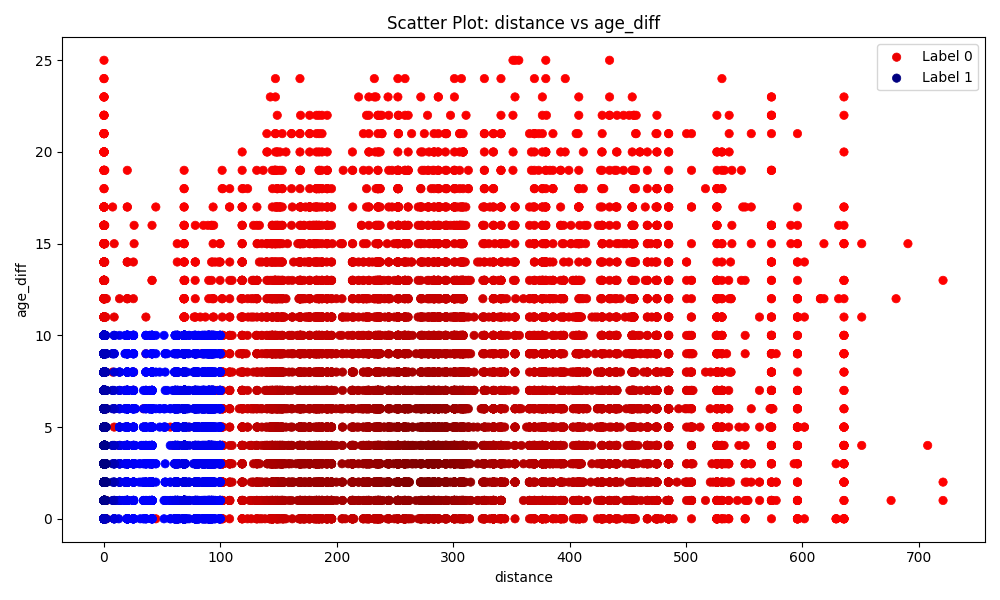
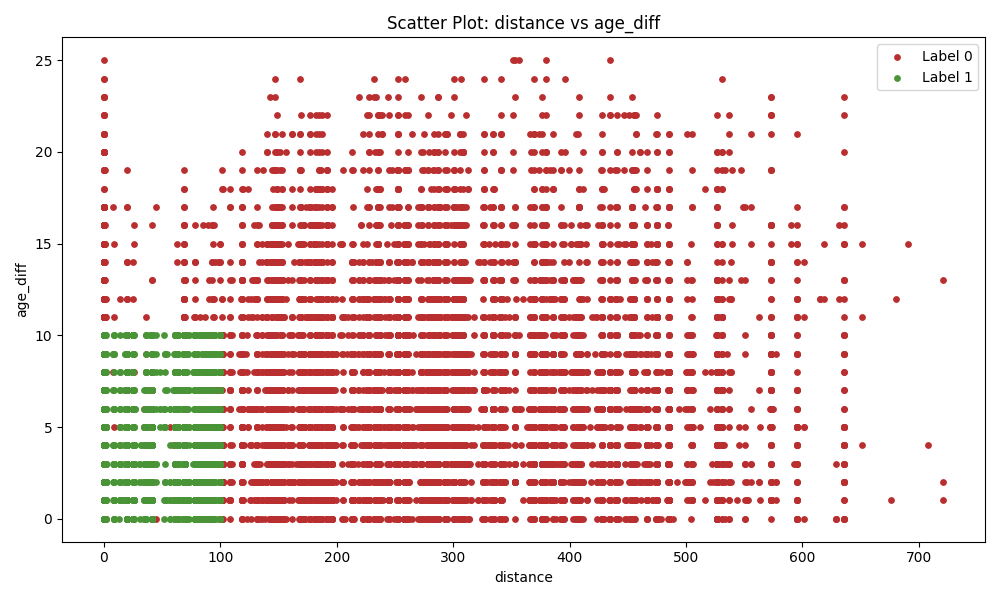
Finish graphs generator

diff --git a/fu_api/management/commands/generate_graph.py b/fu_api/management/commands/generate_graph.py
@@ -1,10 +1,7 @@
 import os
 import itertools
-import numpy as np
 import pandas as pd
 import matplotlib.pyplot as plt
-import matplotlib.colors as mc
-from scipy.stats import gaussian_kde
 from django.core.management.base import BaseCommand, CommandError
 
 
@@ -20,16 +17,10 @@ class Command(BaseCommand):
 
         df = pd.read_csv(csv_path)
 
-        if 'label' not in df.columns:
-            raise CommandError("CSV file must contain a 'label' column.")
-
         df_positive = df[df['label'] == 1.0]
         df_negative = df[df['label'] == 0.0]
 
-        if len(df_negative) > len(df_positive):
-            df_negative = df_negative.sample(n=len(df_positive), random_state=42)
-        elif len(df_positive) > len(df_negative) and len(df_negative) > 0:
-            df_positive = df_positive.sample(n=len(df_negative), random_state=42)
+        df_negative = df_negative.sample(n=len(df_positive), random_state=42)
 
         balanced_df = pd.concat([df_negative, df_positive])
 
@@ -39,7 +30,7 @@ class Command(BaseCommand):
         if not os.path.exists(output_dir):
             os.makedirs(output_dir)
 
-        base_colors = {0.0: 'red', 1.0: 'blue'}
+        base_colors = {0.0: '#b92e2e', 1.0: '#4a9438'}
 
         for x_feature, y_feature in itertools.combinations(feature_columns, 2):
             plt.figure(figsize=(10, 6))
@@ -47,19 +38,11 @@ class Command(BaseCommand):
                 x = group[x_feature].values
                 y = group[y_feature].values
 
-                xy = np.vstack([x, y])
-                density = gaussian_kde(xy)(xy)
-
-                norm_density = (density - density.min()) / (density.max() - density.min() + 1e-6)
-                darken_factor = norm_density * 0.5
-
-                colors_adjusted = [self.adjust_color(base_colors[label], factor) for factor in darken_factor]
-
                 plt.scatter(
                     x, y,
                     label=f"Label {int(label)}",
-                    color=colors_adjusted,
-                    linewidth=0.5,
+                    color=base_colors[label],
+                    s=15
                 )
 
             plt.xlabel(x_feature)
@@ -74,8 +57,3 @@ class Command(BaseCommand):
             self.stdout.write(self.style.SUCCESS(f"Graph saved as {output_path}"))
 
         self.stdout.write(self.style.SUCCESS("All graphs generated successfully."))
-
-    def adjust_color(color, factor):
-        base = np.array(mc.to_rgb(color))
-        new_color = base * (1 - factor)
-        return new_color 
